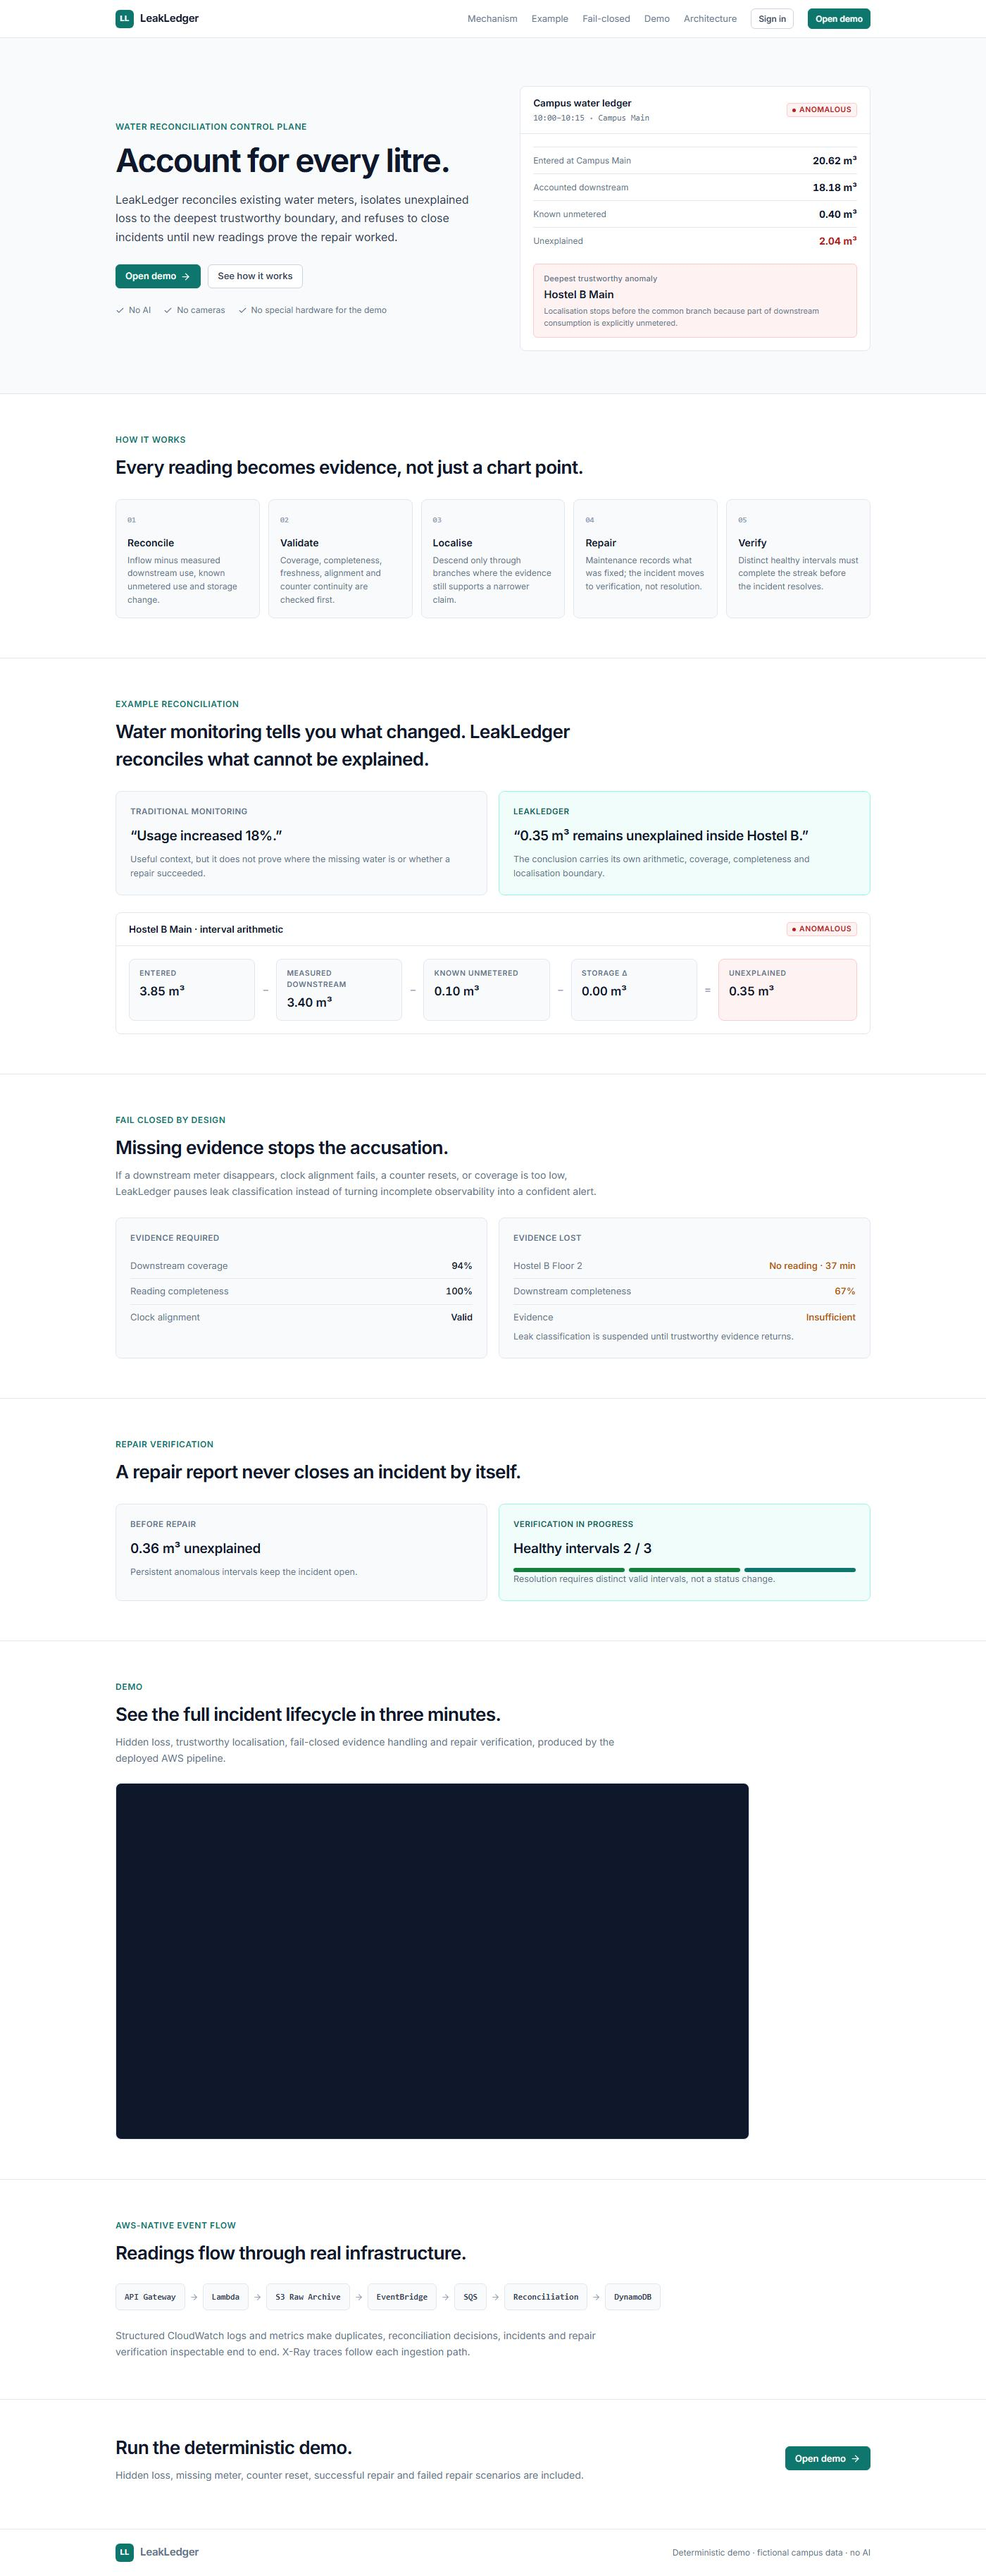
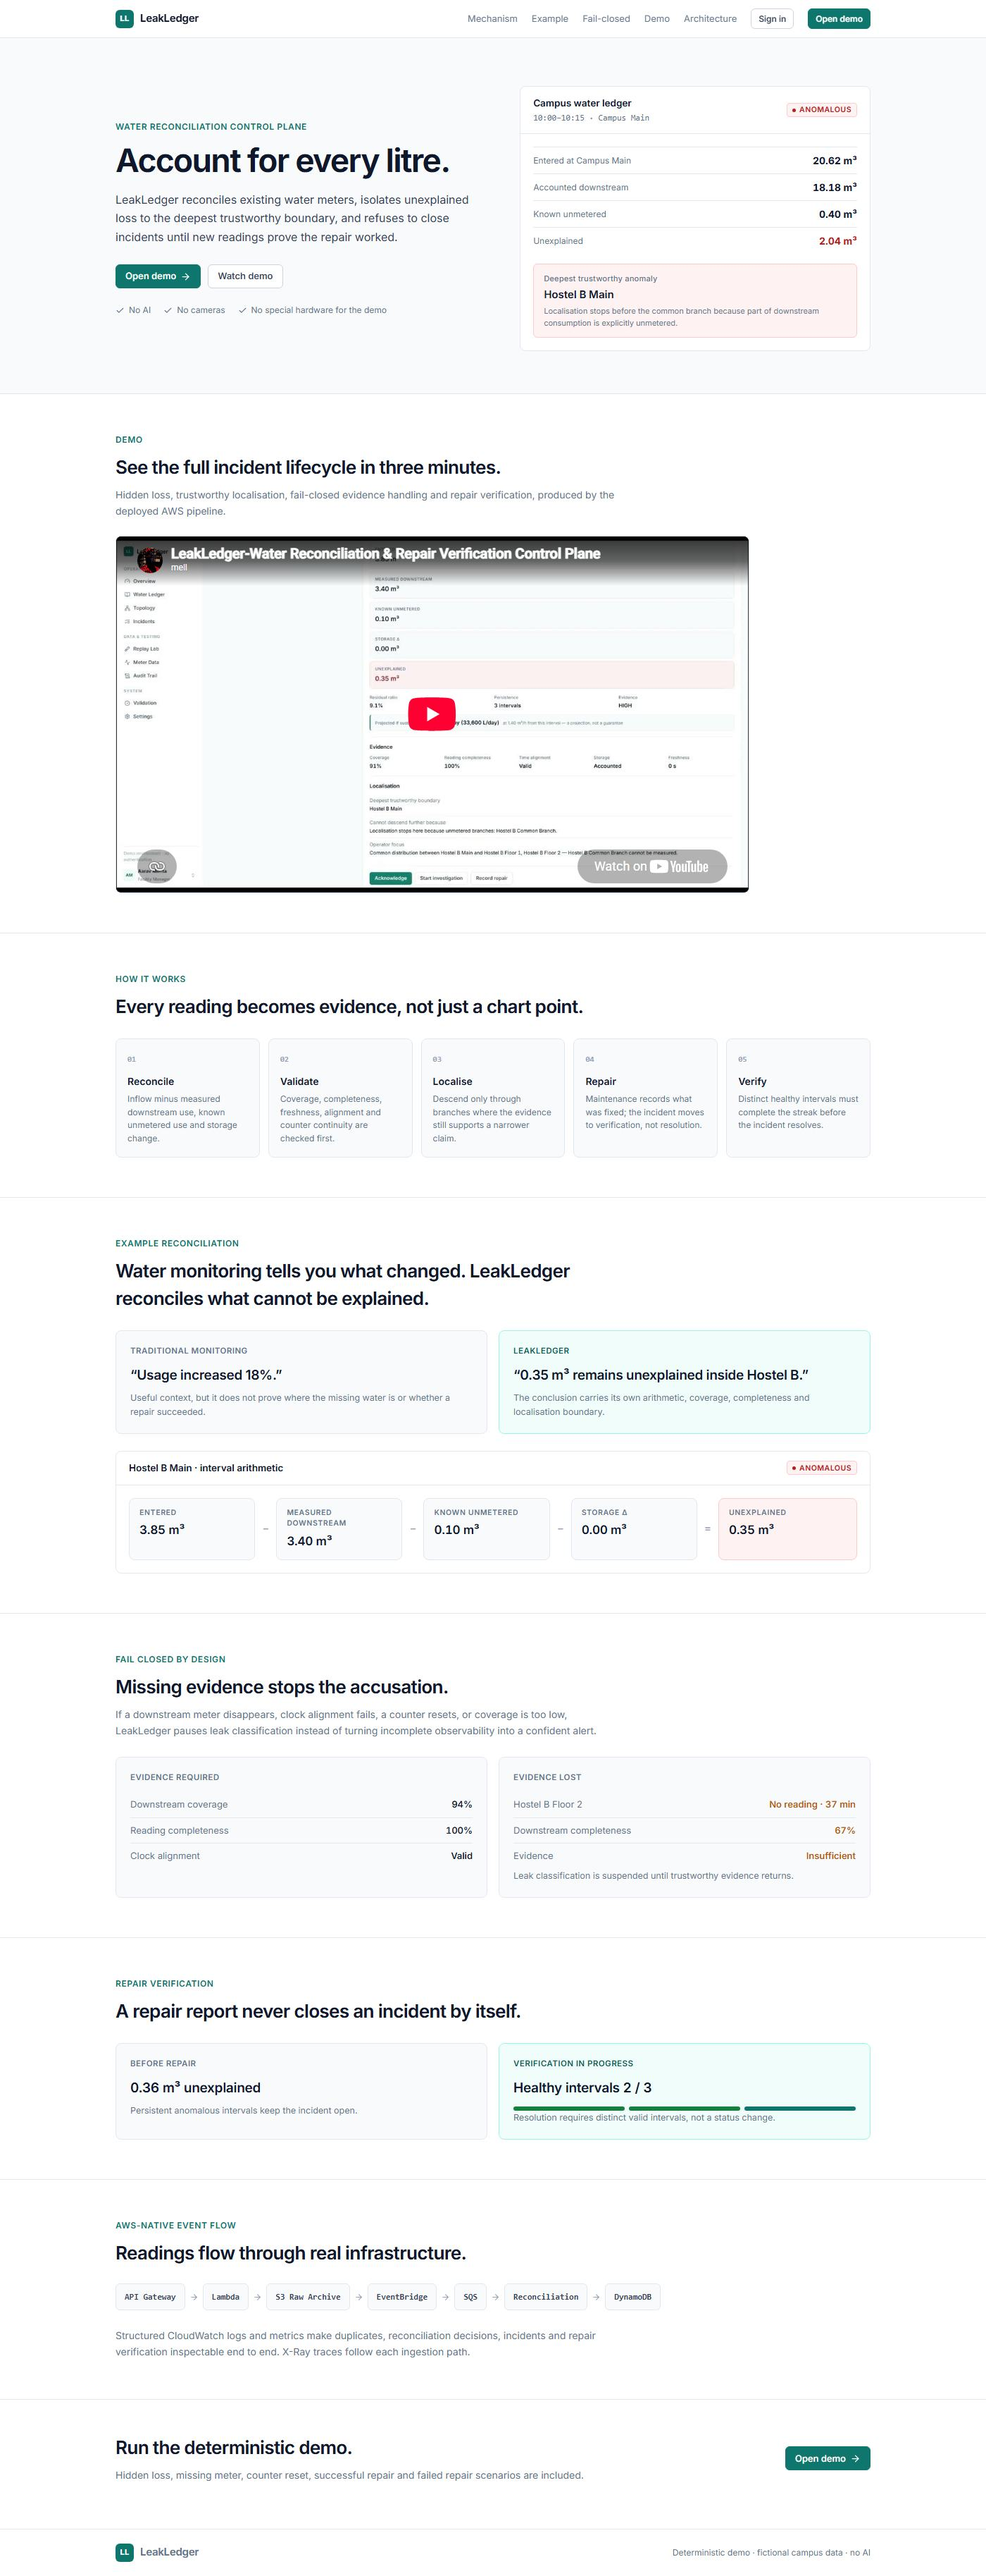
Move demo video directly below the landing hero
The video now sits immediately after the hero with a Watch demo button, instead of below repair verification, so it is visible without scrolling far.

diff --git a/frontend/app/page.tsx b/frontend/app/page.tsx
@@ -68,7 +68,7 @@ export default function Landing() {
             <Link className="btn btn-primary" href="/signin">
               Open demo <ArrowRight size={15} />
             </Link>
-            <a className="btn" href="#mechanism">See how it works</a>
+            <a className="btn" href="#demo">Watch demo</a>
           </div>
           <div className="landing-proof">
             <span><Check size={13} /> No AI</span>
@@ -106,6 +106,27 @@ export default function Landing() {
                 unmetered.
               </div>
             </div>
+          </div>
+        </div>
+      </section>
+
+      <section className="landing-section" id="demo">
+        <div className="landing-section-inner">
+          <div className="landing-kicker">Demo</div>
+          <h2 className="landing-h2">See the full incident lifecycle in three minutes.</h2>
+          <p className="landing-sub">
+            Hidden loss, trustworthy localisation, fail-closed evidence handling and repair verification, produced by
+            the deployed AWS pipeline.
+          </p>
+          <div className="video-frame">
+            <iframe
+              src="https://www.youtube-nocookie.com/embed/YbeU8c0kxNc"
+              title="LeakLedger demo video"
+              loading="lazy"
+              allow="accelerometer; clipboard-write; encrypted-media; gyroscope; picture-in-picture; web-share"
+              referrerPolicy="strict-origin-when-cross-origin"
+              allowFullScreen
+            />
           </div>
         </div>
       </section>
@@ -229,27 +250,6 @@ export default function Landing() {
               </div>
               <p className="mt-12">Resolution requires distinct valid intervals, not a status change.</p>
             </div>
-          </div>
-        </div>
-      </section>
-
-      <section className="landing-section" id="demo">
-        <div className="landing-section-inner">
-          <div className="landing-kicker">Demo</div>
-          <h2 className="landing-h2">See the full incident lifecycle in three minutes.</h2>
-          <p className="landing-sub">
-            Hidden loss, trustworthy localisation, fail-closed evidence handling and repair verification, produced by
-            the deployed AWS pipeline.
-          </p>
-          <div className="video-frame">
-            <iframe
-              src="https://www.youtube-nocookie.com/embed/YbeU8c0kxNc"
-              title="LeakLedger demo video"
-              loading="lazy"
-              allow="accelerometer; clipboard-write; encrypted-media; gyroscope; picture-in-picture; web-share"
-              referrerPolicy="strict-origin-when-cross-origin"
-              allowFullScreen
-            />
           </div>
         </div>
       </section>
